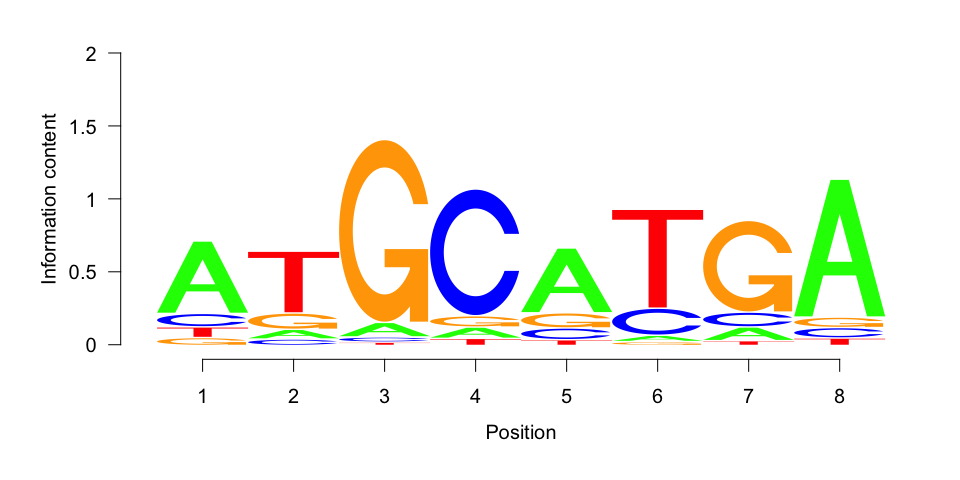
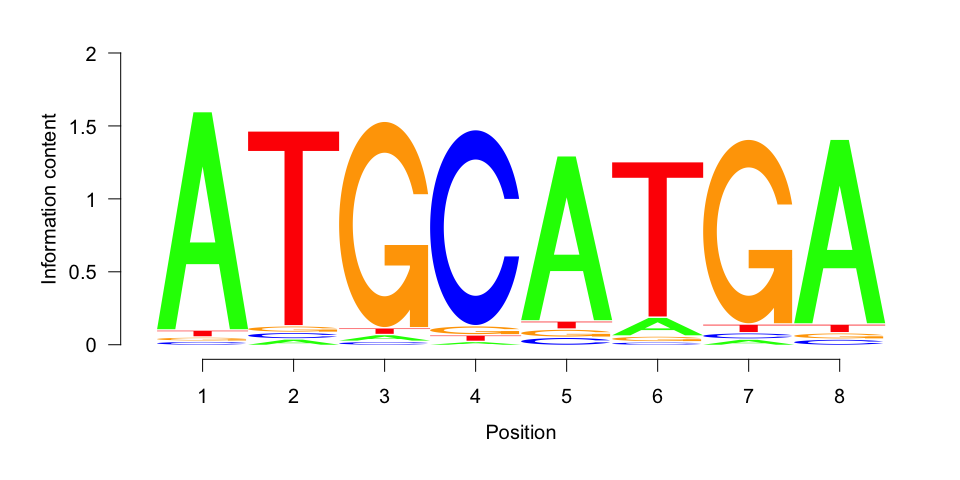
update examples

Changed region(s): [[0.1562, 0.2188, 0.9375, 0.7188], [0.375, 0.5938, 0.4062, 0.625]]

diff --git a/vignettes/vignette.md b/vignettes/vignette.md
@@ -1,37 +1,29 @@
 MotifFinder: Vignette (Tutorial)
 ================
 Daniel Wells
-2017-12-09
+2017-12-12
 
 Simulate Data
 -------------
 
-We create 300 DNA sequences of length 200. Then we add the motif "ATGCATGA" to ~10% of the sequences at the center.
+We create 300 DNA sequences of length 200 with the motif "ATGCATGA" at the center of 20% of the sequences.
 
 ``` r
-# create random sequences
-sequences <- character(length = 300)
-for (i in seq_along(sequences)){
-  sequences[i] <- rep(paste(sample(c("A","T","G","C"), 200, T), collapse = ''))
-}
-
-# add enriched motif at position 101 to 108 of ~10% of sequences
-for (i in seq(from=1, to=length(sequences), by=10)){
-  substr(sequences[i],101,108) <- "ATGCATGA"
-}
+set.seed(42)
+simulated_sequences <- simulate_sequences(motif="ATGCATGA")
 
 str(sequences)
 ```
 
-    ##  chr [1:300] "GCGAAGCGGGCGAACGCCCGGGGTAGTGCTAGGAATCATCACTTTACCAGTGTACGATGCGTGAATTTTTGTCTTCTTTACGAAATGTGTAATGCGAATCATGCATGATAG"| __truncated__ ...
+    ##  chr [1:300] "CCTCGGGAGGTGCTTCCATGCACCAGTCTCGCTGACAACGTTACTCCGCGTTTCAGGATGGCCGCATCGAAAATAGATGAGATGCGAAATGAACCGTGGGATGCATGAGAG"| __truncated__ ...
 
 Run MotifFinder
 ===============
 
-We run MotifFinder with a length slightly shorter than the known motif and uniform scores.
+We run MotifFinder with a length slightly shorter than the known motif length.
 
 ``` r
-motif_found <- findamotif(sequences, len=7, scores=rep(1,300))
+motif_found <- findamotif(simulated_sequences, len=7)
 ```
 
 Plot the Motif(s) Found
@@ -40,22 +32,13 @@ Plot the Motif(s) Found
 We can see that we have recovered the motif.
 
 ``` r
-scorematset=exp(motif_found$scoremat)
-compmat=scorematset[,c(4:1)]
-
-scorematset=scorematset/rowSums(scorematset)
-compmat=compmat/rowSums(compmat)
-
-pwm = t(scorematset)
-compmat=compmat[nrow(compmat):1,]
-
-seqLogo::seqLogo(t(compmat))
+seqLogo::seqLogo(get_PWM(motif_found))
 ```
 
 ![](vignette_files/figure-markdown_github/unnamed-chunk-4-1.png)
 
 ``` r
-seqLogo::seqLogo(pwm)
+seqLogo::seqLogo(get_PWM(motif_found, complement=TRUE))
 ```
 
 ![](vignette_files/figure-markdown_github/unnamed-chunk-4-2.png)

diff --git a/README.md b/README.md
@@ -15,6 +15,16 @@ This is free software shared in the hope it may be of use; no warranty is given 
 ```R
 # install.packages("devtools")
 devtools::install_github("myersgroup/MotifFinder")
+
+# simulate set of sequences enriched for a motif
+set.seed(42)
+simulated_sequences <- simulate_sequences(motif="ATGCATGA")
+
+# run MotifFinder
+motif_found <- findamotif(simulated_sequences, len=7)
+
+# visualise the motif found
+seqLogo::seqLogo(get_PWM(motif_found))
 ```
 
-For a quick tutorial on how to use this package please see the [vignette](vignettes/vignette.md).
+![](vignettes/vignette_files/figure-markdown_github/unnamed-chunk-4-1.png)
